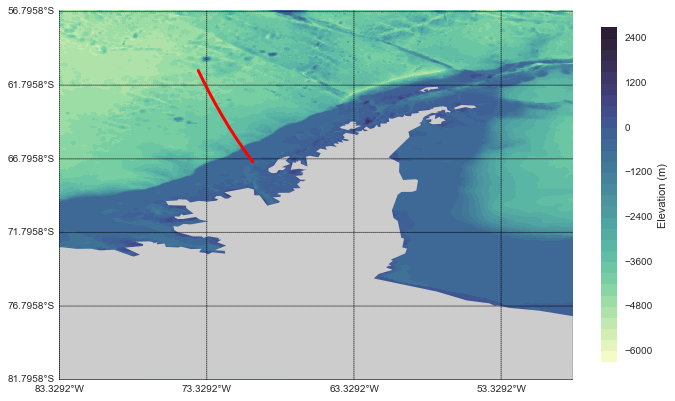
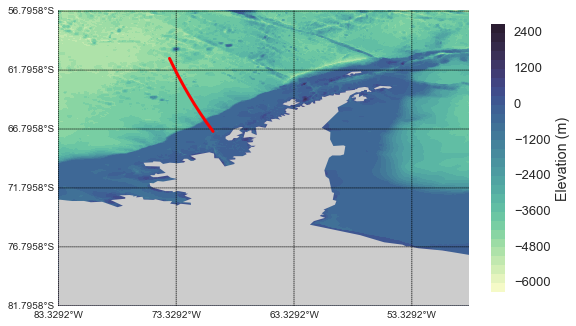
latest commit

diff --git a/bathygrid2profile/bathygrid2profile.md b/bathygrid2profile/bathygrid2profile.md
@@ -10,9 +10,10 @@ import pyproj
 from netCDF4 import Dataset
 from mpl_toolkits.basemap import Basemap
 import cmocean
+from plotting import nice_plots # my module for plot styling 
 import seaborn as sns
 import warnings
-sns.set_context("notebook")
+sns.set_context("talk")
 warnings.filterwarnings('ignore')
 % matplotlib inline
 ```
@@ -44,12 +45,12 @@ I am a big proponent of first looking at the data.  I have a small enough bathym
 
 
 ```python
-plt.figure(figsize=(10,10))
+plt.figure(figsize=(8,10))
 lat_max = np.max(lats); lat_min = np.min(lats); 
 lon_min = np.min(lons) + 360; lon_max = np.max(lons) + 360
 m = Basemap(projection='cyl',lon_0=210,resolution='l', llcrnrlat=lat_min,
               urcrnrlat=lat_max, llcrnrlon=lon_min, urcrnrlon=lon_max);
-x, y = np.meshgrid(lons+360, lats);
+x, y = np.meshgrid(lons + 360, lats);
 cs = m.contourf(x, y, elev[:], 30, latlon=True, cmap=cmocean.cm.bathymetry)
 plt.colorbar(label='Elevation (m)', fraction=0.03)
 m.fillcontinents(color='0.8', lake_color='0.8');
@@ -63,7 +64,7 @@ m.drawgreatcircle(pt1[1] + 360, pt1[0], pt2[1] + 360, pt2[0], latlon=True, c='r'
 
 
 
-    [<matplotlib.lines.Line2D at 0x149b08d68>]
+    [<matplotlib.lines.Line2D at 0x14920c358>]
 
 
 
@@ -74,25 +75,25 @@ m.drawgreatcircle(pt1[1] + 360, pt1[0], pt2[1] + 360, pt2[0], latlon=True, c='r'
 # Methods
 The basic approach to this problem is simple.  We need to first generate a set of points along the line given in red and then find a way to query the bathymetry at those points.
 
-To tackle the first portion of this we will use the function below which relies on pyproj.
+To tackle the first portion of this we will use the function below which relies on the pyproj module.
 
 
 ```python
-'''
-ptsarr:
-Takes in pair of points, returns latlon points along great circle between them at 100m intervals
-
-Input
------
-lat1, lon1, lat2, lon2 = lat/lon location of two points of interest (-90 < lat <90,  -180 < lon < 180)
-
-Returns
--------
-lonlats = list of lat/lon pairs
-dist    = distance between each set of sucessive points
-
-'''
 def ptsarr(lat1, lon1, lat2, lon2):
+    '''
+    Description: Takes in pair of points, returns latlon points along 
+    great circle between them at 100m intervals
+
+    Input
+    -----
+    lat1, lon1, lat2, lon2 = lat/lon location of two points of interest (-90 < lat <90,  -180 < lon < 180)
+
+    Returns
+    -------
+    lonlats = list of lat/lon pairs
+    dist    = distance between each set of sucessive points
+
+    '''
     g = pyproj.Geod(ellps='WGS84')
     (az12, az21, dist) = g.inv(lon1, lat1, lon2, lat2)
     lonlats = g.npts(lon1, lat1, lon2, lat2, 1 + int(dist/100))
@@ -105,45 +106,42 @@ We will now locate the bathymetry data closest to each point we established abov
 
 
 ```python
-'''
-find_nearest:
-Takes in an array and point, returns index of the closest location 
-in the array to the point
-
-Inputs
------
-arr   = array of values (i.e. latitude)
-value = point of interest
-
-Returns
------
-idx = integer index of location 
-
-'''
 def find_nearest(arr, value):
+    '''
+    Description: Takes in an array and point, returns index of the closest location 
+    in the array to the point
+
+    Inputs
+    -----
+    arr   = array of values (i.e. latitude)
+    value = point of interest
+
+    Returns
+    -----
+    idx = integer index of location 
+
+    '''
     idx = (np.abs(arr-value)).argmin()
     return idx
-
 ```
 
 Now I combine the two functions above into the main method which takes in the two lat/lon points defining our profile and outputs the bathymetry information between them.  
 
 
 ```python
-'''
-pts2elevprofile:
-Takes two points and returns ocean depth at points between them
-
-Input
------
-lat1, lon1, lat2, lon2 = lat/lon location of two points of interest (-90 < lat <90,  -180 < lon < 180)
-
-Output
------
-1-D array of longitudes, 1D array of latitudes, 1D array of elevations
-dist = distance between source and measruemetn 
-'''
 def pts2elevprofile(lat1, lon1, lat2, lon2):
+    '''
+    Description: Takes two points and returns ocean depth at points between them
+
+    Input
+    -----
+    lat1, lon1, lat2, lon2 = lat/lon location of two points of interest (-90 < lat <90,  -180 < lon < 180)
+
+    Output
+    -----
+    1-D array of longitudes, 1D array of latitudes, 1D array of elevations
+    dist = distance between source and measruemetn 
+    '''
     points, dist = ptsarr(lat1, lon1, lat2, lon2)
     elev_arr = []
     for locs in points:
@@ -165,10 +163,6 @@ Now lets implement the above function
 
 ```python
 lat, lon, z, dist = pts2elevprofile(pt1[0], pt1[1], pt2[0], pt2[1])
-```
-
-
-```python
 plt.figure(figsize=(12,6))
 plt.plot(dist, z)
 plt.xlabel('Distance along transect (km)')
@@ -178,12 +172,12 @@ plt.ylabel('Elevation (m)')
 
 
 
-    <matplotlib.text.Text at 0x14a27f1d0>
+    <matplotlib.text.Text at 0x1495f1860>
 
 
 
 
-![png](output_16_1.png)
+![png](output_15_1.png)
 
 
 Simple enough!  For higher resolution instances you may need to use interpolation between neighboring grid points to arrive at a better guess for the elevation at each location.
